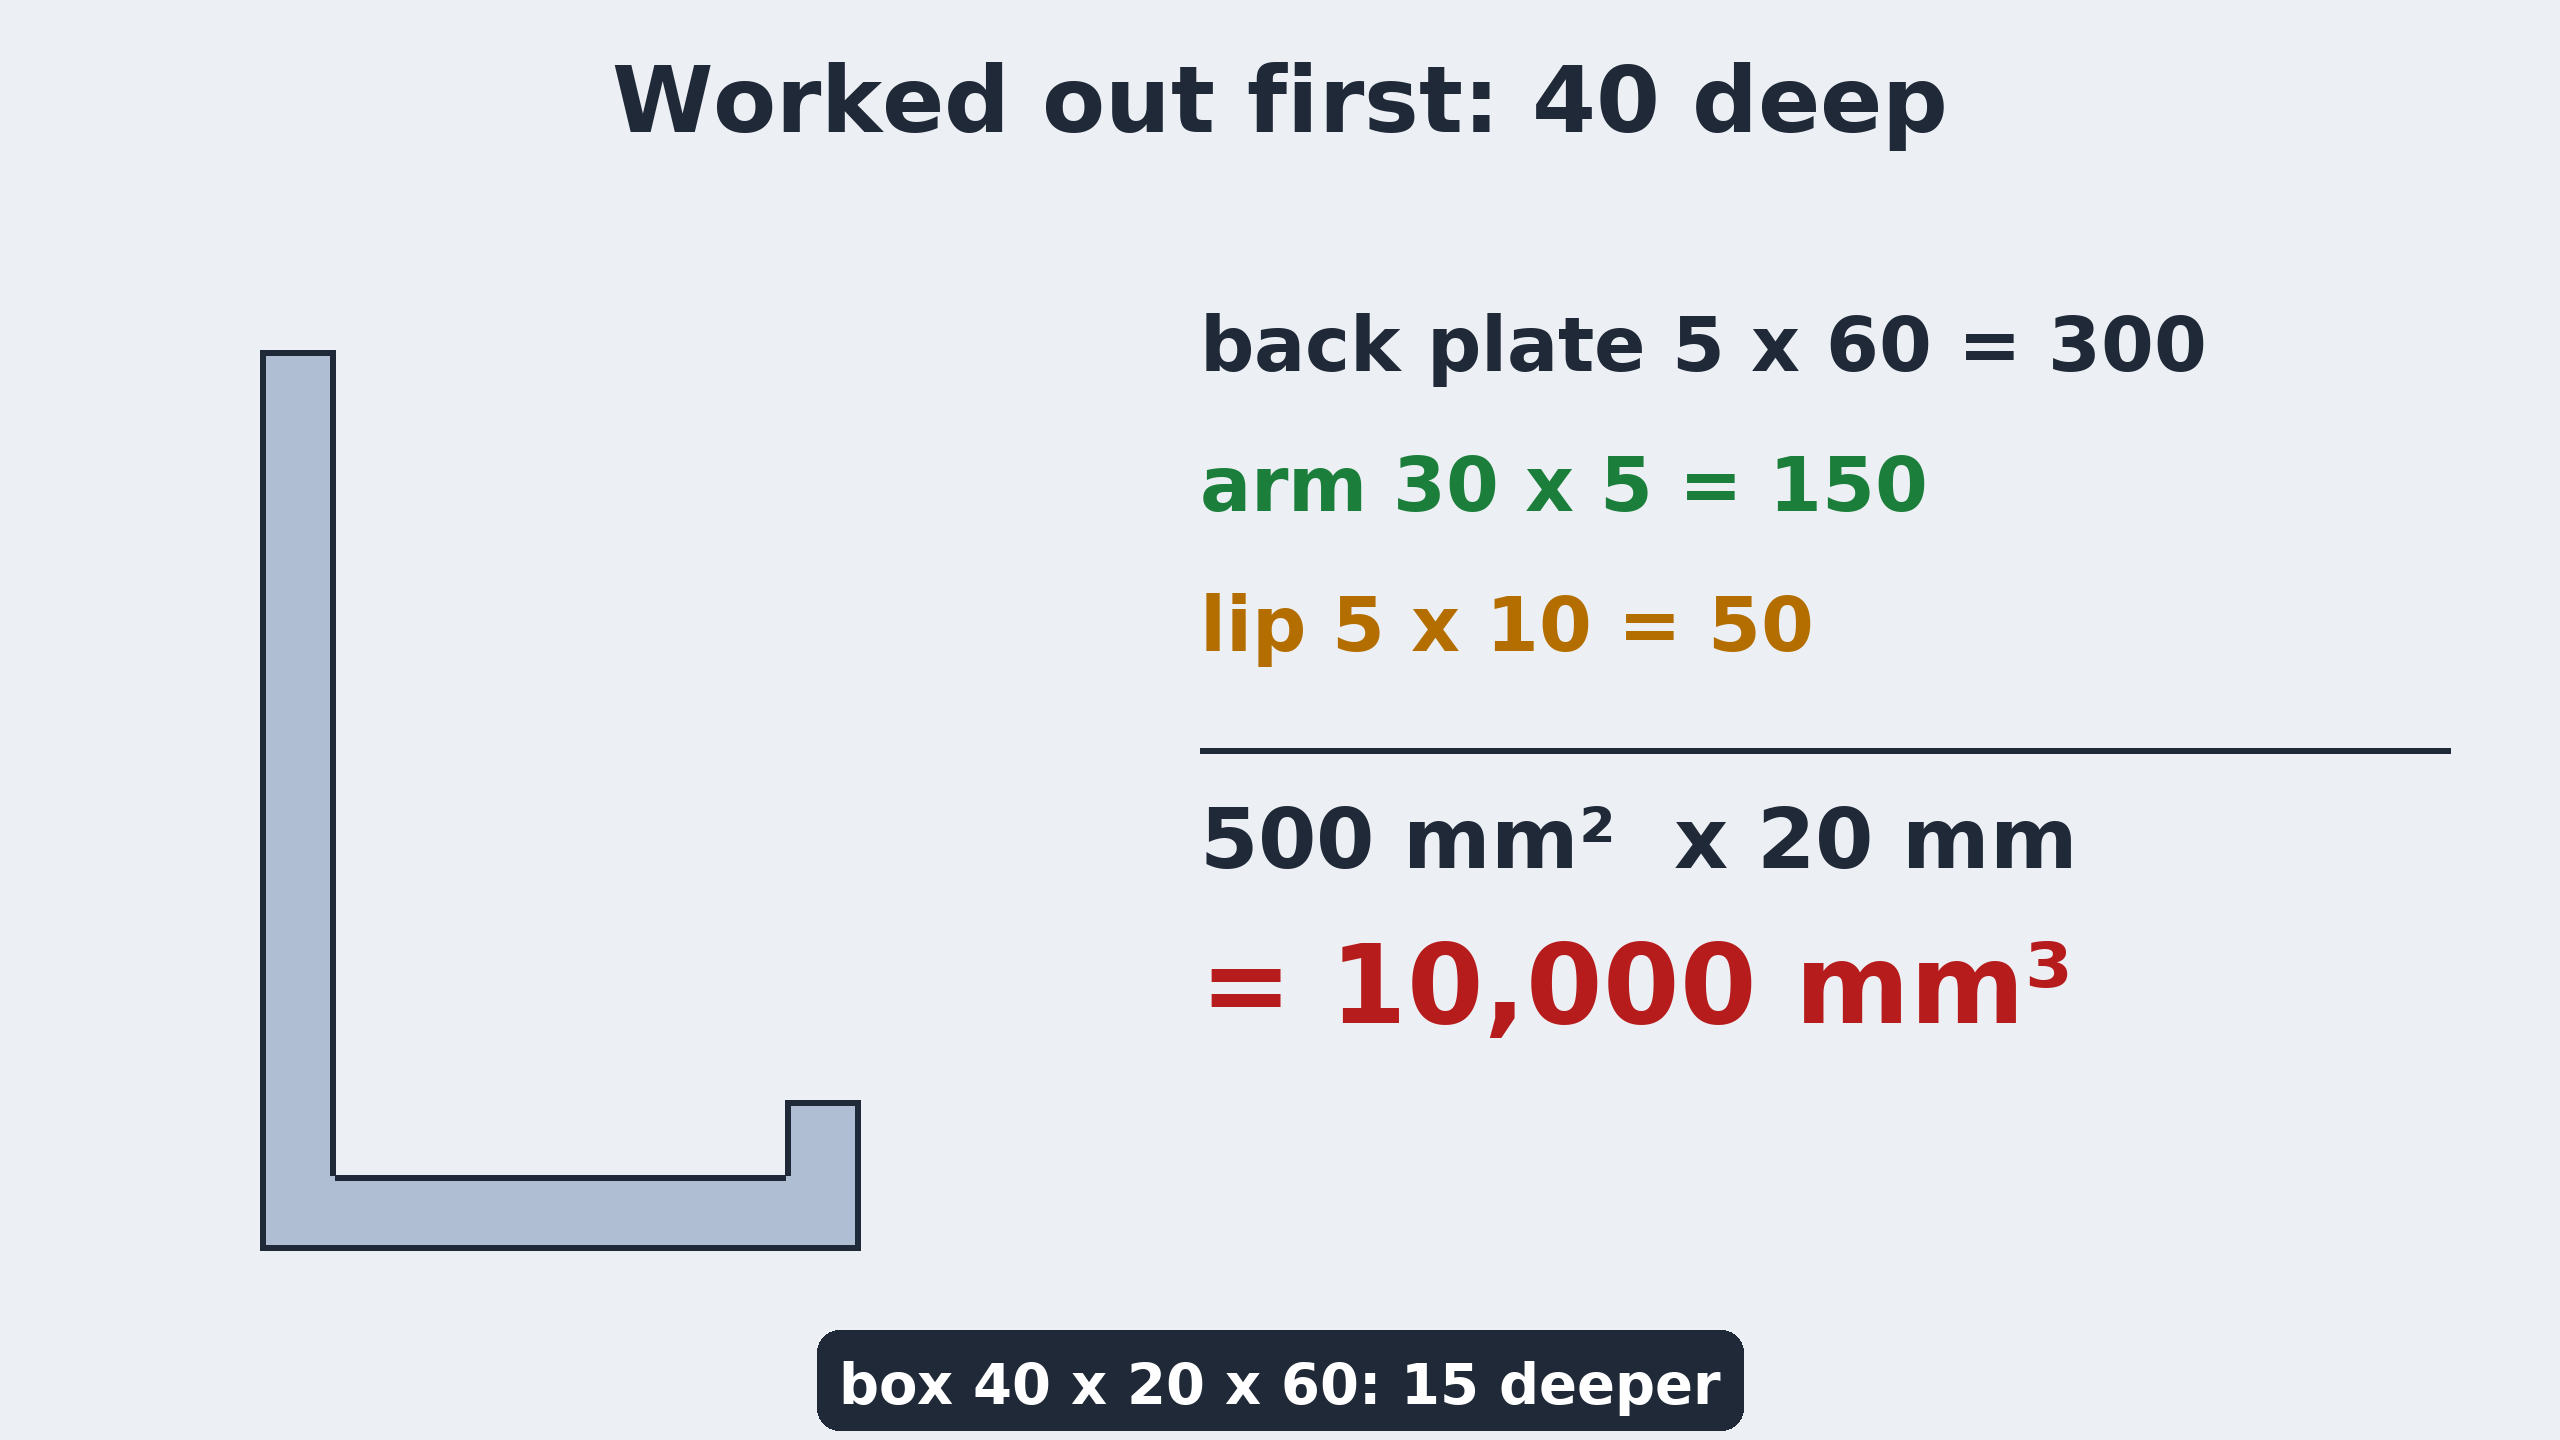
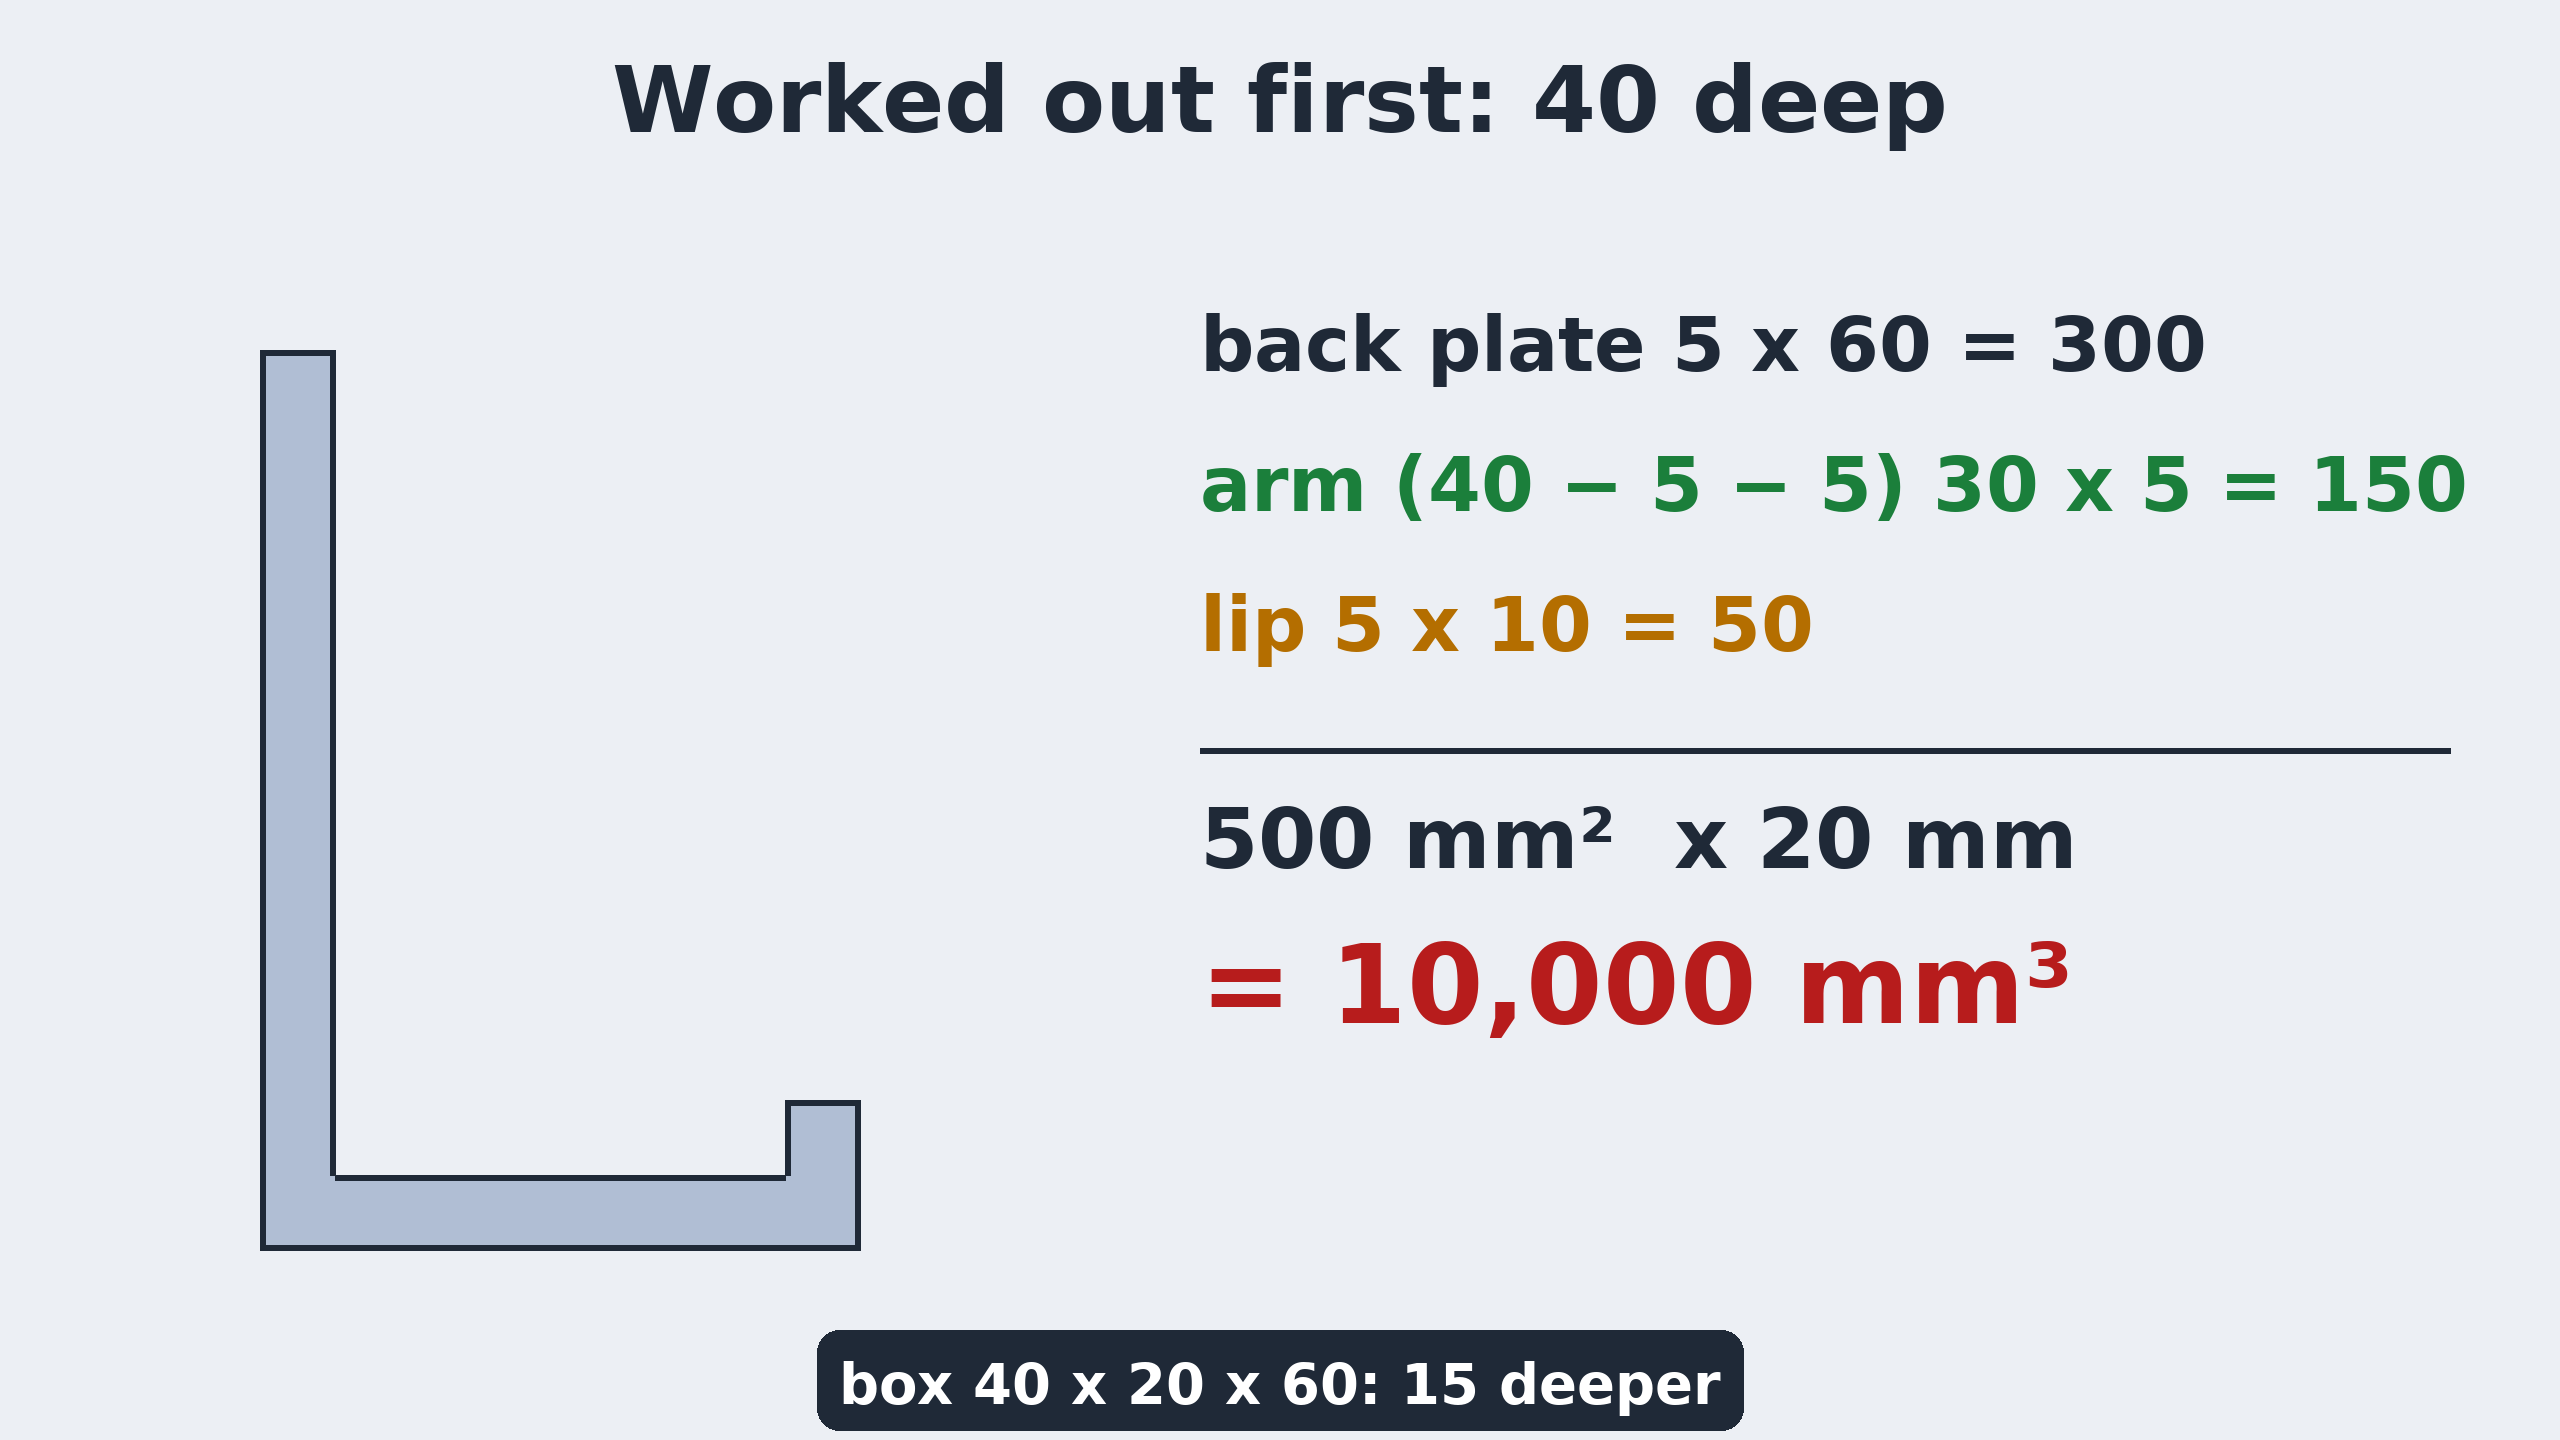
Lesson 3: thumbnails from the real frame, worked-out cards with the arm sum shown, labels after the watch-through

Changed region(s): [[0.5312, 0.3125, 0.9688, 0.375]]

diff --git a/video/draw_l3.py b/video/draw_l3.py
@@ -95,13 +95,13 @@ def card_expected(kind):
         e = exp(40, 5)
         im, dd = canvas(); header(dd, 'Worked out first: 40 deep')
         dd.polygon(jpoly(260, 1250, 15, 40, 5), fill=(176, 190, 212), outline=INK, width=6)
-        rows = [('back plate 5 x 60 = 300', INK), ('arm 30 x 5 = 150', GREEN), ('lip 5 x 10 = 50', AMBER)]
+        rows = [('back plate 5 x 60 = 300', INK), ('arm (40 − 5 − 5) 30 x 5 = 150', GREEN), ('lip 5 x 10 = 50', AMBER)]
         tag = 'box 40 x 20 x 60: 15 deeper'
     else:
         e = exp(40, 8)
         im, dd = canvas(); header(dd, 'Worked out first: 8 thick')
         dd.polygon(jpoly(260, 1250, 15, 40, 8), fill=(176, 190, 212), outline=INK, width=6)
-        rows = [('back plate 8 x 60 = 480', INK), ('arm 24 x 8 = 192', GREEN), ('lip 8 x 10 = 80', AMBER),
+        rows = [('back plate 8 x 60 = 480', INK), ('arm (40 − 8 − 8) 24 x 8 = 192', GREEN), ('lip 8 x 10 = 80', AMBER),
                 ('the drop: 10 − 8 = 2', RED)]
         tag = 'box still 40 x 20 x 60'
     tx = 1200
@@ -199,3 +199,25 @@ if __name__ == '__main__':
     for n in range(1, 6):
         card_recap(n)
     card_a1_vs_ours(); card_compare()
+
+
+def thumbs():
+    """Thumbnails from the real by-hand frame (the tiled window after thickness 8 mm): the hook big, one cell, 4 words."""
+    from PIL import Image
+    src = Image.open(os.path.join(LAB, 'out', 'l3', 'hand', 's17-thick8.png')).convert('RGB')
+    hook = src.crop((560, 230, 1640, 1310)).resize((1100, 1100))
+    cell = src.crop((1960, 495, 2320, 535)).resize((720, 80))
+    for name, words, col in (('thumb-primary.png', ['ONE CELL,', '3 SIZES'], GREEN),
+                             ('thumb-altA.png', ['WHAT IS', '"8 THICK"?'], AMBER)):
+        im, d = canvas(1280 * 2, 720 * 2, (245, 247, 250))
+        im.paste(hook, (60, 170))
+        d.rounded_rectangle((1240, 230, 2480, 470), radius=30, fill=PAPER, outline=INK, width=6)
+        im.paste(cell, (1360, 310))
+        text(d, (1250, 600), words[0], 170, INK)
+        text(d, (1250, 800), words[1], 170, col)
+        text(d, (1250, 1060), 'thickness 5 → 8 mm', 76, GREY)
+        save(im, name)
+
+
+if __name__ == '__main__':
+    thumbs()
